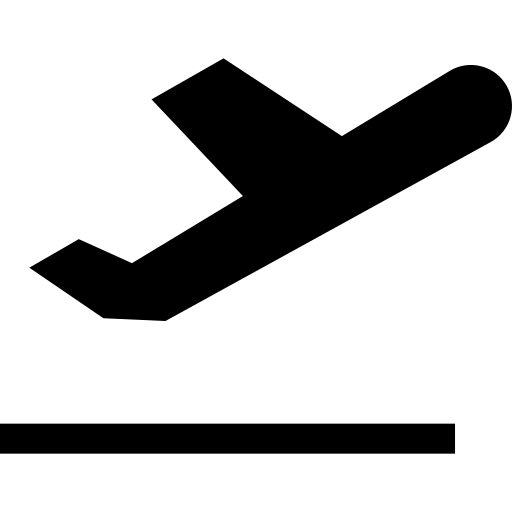
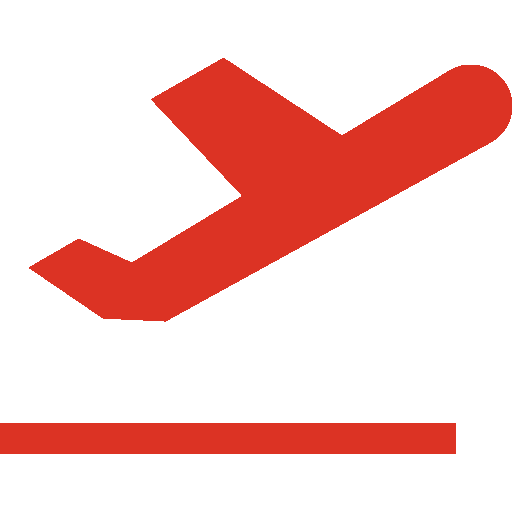
add heroes and update css

Changed region(s): [[0.0625, 0.0938, 1.0, 0.625], [0.0, 0.8125, 0.9062, 0.9062]]

diff --git a/library/css/style.css b/library/css/style.css
@@ -13,13 +13,38 @@ h3,
 h4,
 h5,
 h6,
-nav {
+nav,
+.btn-heroes {
     font-family: 'Palanquin Dark', sans-serif;
     font-weight: 100;
 }
 
+.navbar-nav .nav-link {
+    padding: 10px 0;
+    font-size: 1.2rem;
+}
+
+.btn-heroes {
+    background-color: #dc3324;
+}
+
+.btn-heroes:hover {
+    background-color: rgb(168, 168, 168);
+    color: #2e353b;
+}
+
+.btn-heroes-outline {
+    background-color: rgb(245, 247, 249);
+    border: 1px solid rgb(220, 51, 36);
+}
+
+.btn-heroes-outline:hover {
+    background-color: rgb(220, 51, 36);
+    color: white;
+}
+
 hr {
-    color: #80cbc4;
+    color: rgba(220, 51, 36, 0.623);
 }
 
 h1,
@@ -101,7 +126,7 @@ i.fas.fa-circle.dot {
 }
 
 p.form-content {
-    color: #009688;
+    color: rgb(220, 50, 36);
     font-weight: bold;
     font-size: larger;
 }
@@ -153,4 +178,26 @@ p.form-content {
     width: 3px;
     background-color: rgba(144, 164, 174, .4);
     transform: translate(3.4px, -7px);
+}
+
+section#heroes {
+    margin: 0;
+    padding: 5rem 0;
+}
+
+section#pendaftaran,
+section#hasil-rute {
+    margin-top: 8rem;
+    padding-top: 2rem;
+}
+
+span.navbar-brand {
+    color: rgb(220, 51, 36);
+}
+
+@media screen and (max-width: 768px) {
+    .navbar-nav .nav-link {
+        padding: 10px 0;
+        font-size: 1.2rem;
+    }
 }

diff --git a/index.php b/index.php
@@ -1,11 +1,3 @@
-<?php
-// Get the contents of the JSON file 
-$data = file_get_contents("./data/data.json");
-$data_arr = json_decode($data, true);
-// var_dump($data_arr[1]); // print array
-
-?>
-
 <!DOCTYPE html>
 <html lang="en">
 
@@ -23,26 +15,61 @@ $data_arr = json_decode($data, true);
     <link rel="stylesheet" href="./library/css/style.css">
     <!-- fontawesome icon -->
     <link rel="stylesheet" href="https://use.fontawesome.com/releases/v5.15.3/css/all.css" integrity="sha384-SZXxX4whJ79/gErwcOYf+zWLeJdY/qpuqC4cAa9rOGUstPomtqpuNWT9wdPEn2fk" crossorigin="anonymous">
-
     <title>Flight</title>
 </head>
 
 <body>
-    <nav class="navbar navbar-expand-lg navbar-light shadow-sm">
+    <?php
+    // Get the contents of the JSON file 
+    $data = file_get_contents("./data/data.json");
+    $data_arr = json_decode($data, true);
+    // var_dump($data_arr[1]); // print array
+
+    ?>
+
+    <nav class="navbar fixed-top navbar-expand-lg navbar-light shadow-sm">
         <div class="container">
             <a class="navbar-brand" href="#">
                 <img src="./gambar/icon.png" alt="" width="30" height="30" class="d-inline-block align-text-top">
-                <span class="navbar-brand mb-0 h5 ">Flight</span>
+                <span class="navbar-brand mb-0 h5">Flight</span>
             </a>
-        </div>
 
+
+            <button class="navbar-toggler" type="button" data-toggle="collapse" data-target="#navbarNavAltMarkup" aria-controls="navbarNavAltMarkup" aria-expanded="false" aria-label="Toggle navigation">
+                <span class="navbar-toggler-icon"></span>
+            </button>
+            <div class="collapse navbar-collapse" id="navbarNavAltMarkup">
+
+                <div class="navbar-nav">
+                    <a class="nav-link active" aria-current="page" href="#">Home</a>
+                    <a class="nav-link" href="#pendaftaran">Daftar</a>
+                    <a class="nav-link" href="#hasil-rute">Rute</a>
+                </div>
+
+            </div>
         </div>
     </nav>
 
+
+    <!-- heroes -->
+    <section id="heroes">
+        <div class="px-4 py-5 my-5 text-center">
+            <img class="d-block mx-auto mb-4" src="./gambar/icon.png" alt="" width="72" height="72">
+            <h1 class="display-5 fw-bold">Flight</h1>
+            <div class="col-lg-6 mx-auto">
+                <p class="mb-5 fs-4">Daftarkan penerbangan dengan maskapai terbaikmu <br>dan Rencanakan perjalanan dengan akses ke berbagai rute penerbangan!</p>
+                <div class="d-grid gap-2 d-sm-flex justify-content-sm-center">
+                    <a href="#pendaftaran" type="button" class="btn btn-lg px-4 me-sm-3 btn-heroes text-white">Daftar Penerbangan</a>
+                    <a href="#hasil-rute" type="button" class="btn btn-lg px-4 btn-heroes-outline fw-bold">Lihat Rute Penerbangan</a>
+                </div>
+            </div>
+        </div>
+    </section>
     <main>
+
         <!-- =============== SECTION PENDAFTARAN RUTE PENERBANGAN ================= -->
-        <section class="pendaftaran">
-            <div class="container-sm">
+        <section id="pendaftaran">
+            <div class="container-sm mt-5">
                 <h2 class="text-center p-5">Pendaftaran Rute Penerbangan</h2>
                 <form class="row g-3 col-md-6 mx-auto box shadow">
                     <div class="col-md-12">
@@ -76,7 +103,7 @@ $data_arr = json_decode($data, true);
                         </div>
                     </div>
 
-                    <button type="submit" class="btn btn-success my-4 fw-bold">
+                    <button type="submit" class="btn btn-heroes my-4 text-white">
                         TAMBAH</button>
 
                 </form>
@@ -134,14 +161,14 @@ $data_arr = json_decode($data, true);
                             <!-- =============== HARGA TIKET ================= -->
                             <div class="col-md-12 px-4 py-2">
                                 <p class="form-label fs-6 fw-bold d-inline pb-5">Harga Tiket : </p>
-                                <p class="fw-light d-inline"> <?= $data[3]; ?></p>
+                                <p class="fw-light d-inline"> Rp <?= $data[3]; ?></p>
                                 <hr class="mt-2 mb-2">
                             </div>
 
                             <!-- =============== PAJAK ================= -->
                             <div class="col-md-12 px-4 py-2">
                                 <p class="form-label fs-6 fw-bold d-inline">Pajak : </p>
-                                <p class="fw-light d-inline"> <?= $data[4]; ?></p>
+                                <p class="fw-light d-inline">Rp <?= $data[4]; ?></p>
                                 <hr class="mt-2 mb-2">
                             </div>
 
@@ -159,5 +186,10 @@ $data_arr = json_decode($data, true);
     </main>
 
 </body>
+
+<!-- navbar toggler collapse -->
+<script src="https://ajax.googleapis.com/ajax/libs/jquery/3.5.1/jquery.min.js"></script>
+<script src="https://cdnjs.cloudflare.com/ajax/libs/popper.js/1.16.0/umd/popper.min.js"></script>
+<script src="https://maxcdn.bootstrapcdn.com/bootstrap/4.5.2/js/bootstrap.min.js"></script>
 
 </html>
